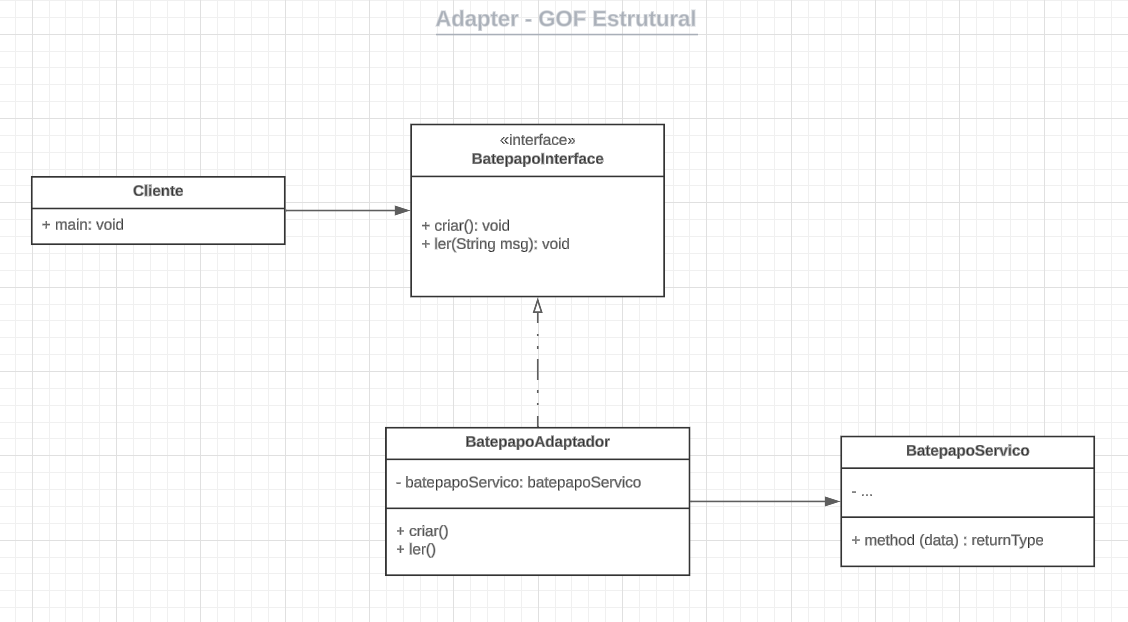
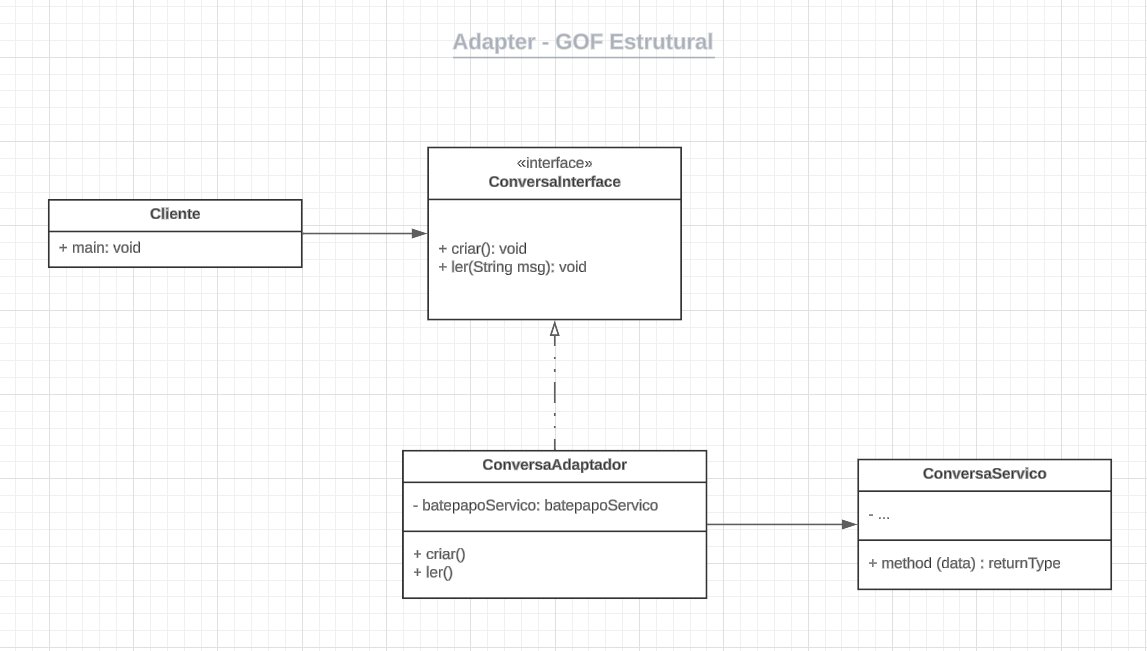
Corrigindo imagem do GoF Adapter e revisando GoFCriacional

diff --git a/docs/PadroesDeProjeto/3.1.GoFCriacional.md b/docs/PadroesDeProjeto/3.1.GoFCriacional.md
@@ -1,18 +1,18 @@
 # Módulo Padrões de Projeto GoF(s) Criacionais
 
-## 1. Introdução 
+## 1. Introdução
 
-Os padrões de projeto GoF (Gang of Four) fornecem uma base, modelo ou descrição através de abordagens reutilizáveis e orientadas a objetos para resolver problemas recorrentes no desenvolvimento de software. Isto é, permitem evidenciar os aspectos essenciais de problemas comuns, levando a sua compreensão mais ampla e orientado a construção de sistemas que exibam efetivamente as qualidades desejada.
+Os padrões de projeto GoF (Gang of Four) fornecem uma base, modelo ou descrição através de abordagens reutilizáveis e orientadas a objetos para resolver problemas recorrentes no desenvolvimento de software.Isto é, eles permitem evidenciar os aspectos essenciais de problemas comuns, levando a uma compreensão mais ampla e orientada à construção de sistemas que exibam efetivamente as qualidades desejadas.
 
 No caso dos padrões de projeto Criacionais, eles "abstraem o processo de instanciação e ajudam a tornar um sistema independente de como seus objetos são criados, compostos e representados" (GAMMA et al., 1994, p. 81).
 
-Os padrões de criação se tornam importantes à medida que os sistemas evoluem no sentido de depender mais da composição de objetos do que da herança de classes. Quando isso acontece, a ênfase se desloca da codificação de maneira rígida de um conjunto fixo de comportamentos para a definição de um conjunto menor de comportamentos fundamentais que podem ser compostos em qualquer número para definir comportamentos mais complexos. Assim, criar objetos com comportamentos particulares exige mais do que simplesmente instanciar uma classe.
+À medida que os sistemas evoluem, tornam-se mais dependentes da composição de objetos do que da herança de classes. Nesse contexto, os padrões de criação ganham importância, deslocando a ênfase da codificação rígida de um conjunto fixo de comportamentos para a definição de um conjunto menor de comportamentos fundamentais, que podem ser compostos de várias formas para criar comportamentos mais complexos. Assim, criar objetos com comportamentos específicos exige mais do que simplesmente instanciar uma classe.
 
-## 2. Metodologia 
+## 2. Metodologia
 
-A priori foi elaborada uma divisão da equipe para que todos consigam discutir, elaborar, desenvolver e revisar diferentes partes do documento. A partir disso, foram dividos quatro principais responsáveis por levar à frente da modelagem e implementação do(s) GoF(s). A seguir, são definidos os **Revisores Principais** (responsáveis por cobrar a elaboração do GoF à equipe responsável e revisar a respectiva modelagem) e **Revisores Secundários** (responsáveis por revisar a implementação e demais pendências, como alterações no template da documentação).     
+A priori foi elaborada uma divisão da equipe para que todos consigam discutir, elaborar, desenvolver e revisar diferentes partes do documento. A partir disso, foram dividos quatro principais responsáveis por levar à frente da modelagem e implementação do(s) GoF(s). A seguir, são definidos os **Revisores Principais** (responsáveis por cobrar a elaboração do GoF à equipe responsável e revisar a respectiva modelagem) e **Revisores Secundários** (responsáveis por revisar a implementação e demais pendências, como alterações no template da documentação).
 
-| Nome | Contribuição | 
+| Nome | Contribuição |
 |:----:|:------------:|
 |[Ana Letícia](https://github.com/analeticiaa) | Desenvolvimento do GoF Criacional |
 |[Suzane Duarte](https://github.com/suzaneduarte) | Desenvolvimento do GoF Criacional |
@@ -31,13 +31,13 @@ A partir disso, também foi realizado uma reunião via ferramenta Discord, onde 
 
 ## 3. Padrão de Projeto Criacional - Factory Method 
 
-### 3.1. Base 
+### 3.1. Base
 
-Definir uma interface para criar um objeto, mas deixar as subclasses decidirem que classe instanciar. O Factory Method permite que uma classe delegue a responsabilidade de instanciação às subclasses. 
+O Factory Method define uma interface para criar um objeto, mas deixa as subclasses decidirem qual classe instanciar. O Factory Method permite que uma classe delegue a responsabilidade de instanciação às subclasses.
 
-Isto é, existe uma classe que possui um método que pode ou não ser abstrato. Se ele for, força-se as subclasses a implementarem esse método informando o tipo de produto que irá ser retornado. 
+Isto é, existe uma classe que possui um método que pode ou não ser abstrato. Se ele for, força-se as subclasses a implementarem esse método informando o tipo de produto que irá ser retornado.
 
-A seguir, é apresentado uma Estrutura do padrão Factory Method. 
+A seguir, é apresentado uma Estrutura do padrão Factory Method.
 
 ![](../assets/gofs-criacionais/factory-method.png)
 <center>
@@ -50,29 +50,29 @@ Nesse contexto, os participantes são:
 
 - **Product**: define atributos e métodos (programados de forma mais genérica, para um conjunto de objetos), de forma que haja uma interface comum para todos os objetos criados pelo factory method;
 
-- **ConcreteProduct**: estende Product, especializando o que foi definido na superclasse e implementando a interface do produto; de forma que a instância deste objeto é retornada pela classe específica ConcreteCreator. 
+- **ConcreteProduct**: estende Product, especializando o que foi definido na superclasse e implementando a interface do produto; de forma que a instância deste objeto é retornada pela classe específica ConcreteCreator.
 
 - **Creator**: declara o factory method, o qual retorna um objeto do “tipo” Product. Essa classe também pode definir uma implementação default do factory method que retorna um objeto ConcreteProduct default, podendo ainda chamar um factory method para criar um objeto de Product.
 
 - **ConcreteCreator**: sobrescreve o factory method para retornar uma instância de ConcreteProduct. De forma que o factory method não precisa criar uma nova instância de produto todas as vezes, por exemplo, uma instância do objeto pode ser armazenada no cache e retornada posteriormente ao chamar o factory method.
 
-Em suma, tais padrões do Factory Methods, eliminam a necessidade de anexar classes específicas das aplicações no código, de forma que ele somente lida com a interface de Product; portanto, ele pode trabalhar com quaisquer classes ConcreteProduct definidas pelo usuário. 
+Em suma, tais padrões do Factory Methods, eliminam a necessidade de anexar classes específicas das aplicações no código, de forma que ele somente lida com a interface de Product; portanto, ele pode trabalhar com quaisquer classes ConcreteProduct definidas pelo usuário.
 
 ### 3.2. Modelagem
 
-### 3.3. Implementação do Factory Method 
+### 3.3. Implementação do Factory Method
 
-## 4. Padrão de Projeto Criacional - Método Criacional 2 
+## 4. Padrão de Projeto Criacional - Método Criacional 2
 
 ## 5. Padrão de Projeto Criacional - Método Criacional 3
 
-## 6. Conclusão 
+## 6. Conclusão
 
 Conforme foi apresentado nas seções anteriores, a utilização de Padrões de Projeto no desenvolvimento de aplicações aumenta a flexibilidade do sistema, sua manutenibilidade e a legibilidade do código, que passa a ser distribuído por módulos menores. De forma que, tais benefícios levam diretamente à diminuição da complexidade do código por torná-lo mais modular e organizado, o que reduz diretamente sua complexidade.
 
-A partir disso, os membros responsáveis pelo desenvolvimento do GoF Criacional realizaram discussões para definir qual o padrão criacional mais adequado para a aplicação, buscando compreender as principais características e vantagens de cada um deles. 
+A partir disso, os membros responsáveis pelo desenvolvimento do GoF Criacional realizaram discussões para definir qual o padrão criacional mais adequado para a aplicação, buscando compreender as principais características e vantagens de cada um deles.
 
-Chegou-se a conclusão de que os padrões de projetos criacionais mais adequados a serem utilizados foram: 
+Chegou-se a conclusão de que os padrões de projetos criacionais mais adequados a serem utilizados foram:
 
 ## Colaboração e Trabalho em Equipe
 
@@ -80,10 +80,10 @@ Chegou-se a conclusão de que os padrões de projetos criacionais mais adequados
 
 > GAMMA, Erich; HELM, Richard; JOHNSON, Ralph; VLISSIDES, John. Design Patterns: Elements of Reusable Object-Oriented Software. Boston: Addison-Wesley, 1994. Disponível em: <https://www.javier8a.com/itc/bd1/articulo.pdf>. Acesso em: 23 jul. de 2024.
 
-
-## Controle de Versionamento 
+## Controle de Versionamento
 
 | Versão | Data da alteração |      Alteração      |     Responsável     |                     Revisor                      | Data de revisão |
 | :----: | :---------------: | :-----------------: | :-----------------: | :----------------------------------------------: | :-------------: |
 |  1.0   |    18/07/2024     | Criação do template do artefato | [Suzane Duarte](https://github.com/suzaneduarte) | [Pablo Guilherme](https://github.com/PabloGJBS) |    22/07/2024    |
-|  1.1   |    23/07/07/2024     | Adiciona 1.Introdução e 3.1.Base | [Suzane Duarte](https://github.com/suzaneduarte) | [Augusto Duarte](https://github.com/Augcamp) |        |
+|  1.1   |    23/07/07/2024     | Adiciona 1.Introdução e 3.1.Base | [Suzane Duarte](https://github.com/suzaneduarte) | [Augusto Duarte](https://github.com/Augcamp) |     23/07/2024  |
+|1.2|   24/07/2024  |  Revisão do texto e correções gramaticais. |  [Pablo Guilherme](https://github.com/PabloGJBS) | - |   A realizar |
